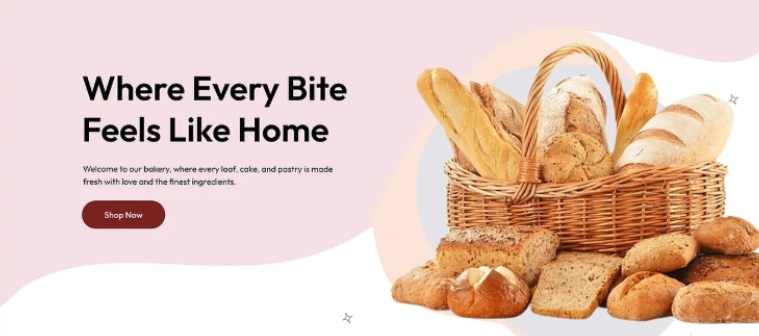
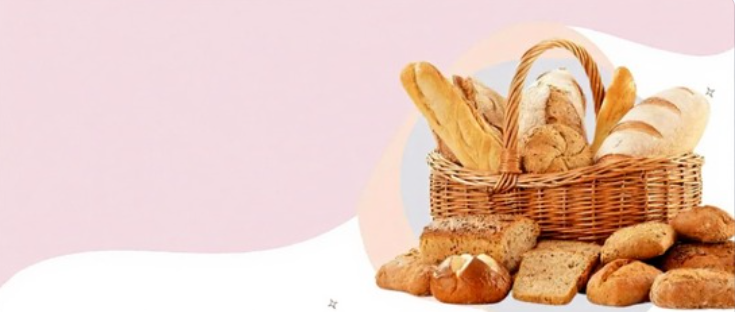
hero section working on

diff --git a/frontend/src/components/Hero.jsx b/frontend/src/components/Hero.jsx
@@ -1,36 +1,28 @@
-import basketImg from '../assets/bread-basket.png'; // Your basket image
+import basketImg from '../assets/bread-basket.png';
 
 export default function Hero() {
   return (
-    // Removed the "bg-black/40" so the wavy background shows through
     <div className="relative pt-32 pb-20 px-6">
       <div className="max-w-7xl mx-auto grid md:grid-cols-2 gap-12 items-center">
         
-        {/* Left Side: Text */}
+        {/* Text Section */}
         <div className="space-y-8">
-          <h1 className="text-6xl md:text-8xl font-black text-gray-900 leading-[1.1]">
+          <h1 className="text-2xl md:text-6xl font-black text-gray-900 leading-tight">
             Where Every <br />
             Bite Feels <br />
             <span className="text-[#7A231E]">Like Home</span>
           </h1>
           
-          <p className="text-gray-700 text-lg max-w-sm leading-relaxed font-medium">
+          <p className="text-gray-700 text-lg max-w-sm font-medium leading-relaxed">
             Welcome to our bakery, where every loaf, cake, and pastry is made fresh with love and the finest ingredients.
           </p>
 
-          <button className="bg-[#7A231E] text-white px-10 py-4 rounded-full font-bold text-lg shadow-xl hover:bg-[#5a1a16] transition-transform hover:scale-105">
+          <button className="bg-[#7A231E] text-white px-10 py-4 rounded-full font-bold text-lg shadow-xl shadow-red-200/50 hover:bg-[#5c1a16] transition-all hover:scale-105 active:scale-95">
             Shop Now
           </button>
         </div>
 
-        {/* Right Side: Your Basket Image */}
-        <div className="relative flex justify-center">
-          <img 
-            src={basketImg} 
-            alt="Fresh bread basket" 
-            className="w-full max-w-[600px] drop-shadow-2xl"
-          />
-        </div>
+       
 
       </div>
     </div>

diff --git a/frontend/src/App.jsx b/frontend/src/App.jsx
@@ -1,19 +1,9 @@
-import React, { useEffect, useState } from 'react';
-import axios from 'axios';
+import React from 'react';
 import Navbar from './components/Navbar';
 import Hero from './components/Hero';
-// Import your new wavy background
-import wavyBG from './assets/landing-bg.png'; 
+import wavyBG from './assets/landing-bg.png'; // Make sure this file name is correct
 
 function App() {
-  const [products, setProducts] = useState([]);
-
-  useEffect(() => {
-    axios.get('http://localhost:8800/api/products')
-      .then(res => setProducts(res.data))
-      .catch(err => console.error(err));
-  }, []);
-
   return (
     <div 
       className="min-h-screen font-sans selection:bg-pink-200"
@@ -21,7 +11,7 @@ function App() {
         backgroundImage: `url(${wavyBG})`,
         backgroundSize: 'cover',
         backgroundPosition: 'center',
-        backgroundAttachment: 'fixed', // This keeps the waves still while you scroll
+        backgroundAttachment: 'fixed', // This keeps the waves in place while scrolling
         backgroundRepeat: 'no-repeat'
       }}
     >

diff --git a/frontend/src/components/Navbar.jsx b/frontend/src/components/Navbar.jsx
@@ -3,12 +3,12 @@ import logo from '../assets/logo.png'; // Make sure you have your logo
 
 export default function Navbar() {
   return (
-    <nav className="fixed top-0 left-0 right-0 bg-[#3C2A20] shadow-lg z-50">
+    <nav className="fixed top-0 left-0 right-0 bg-[#7A231E] shadow-lg z-50">
       <div className="max-w-7xl mx-auto px-6 h-20 flex justify-between items-center">
         {/* Logo and Name */}
         <div className="flex items-center gap-3">
           <img src={logo} alt="Sweet Crumbs Logo" className="h-10 w-10" />
-          <span className="text-2xl font-bold text-white">Sweet Crumbs</span>
+          <span className="text-2xl font-bold text-white">Mitho_Bite</span>
         </div>
 
         {/* Links */}
